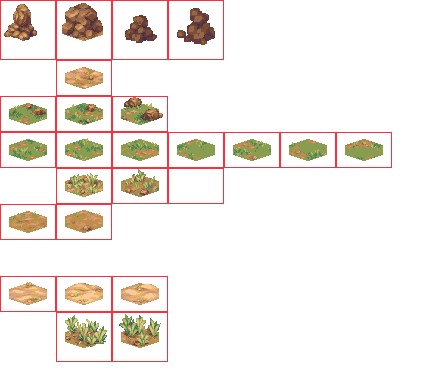
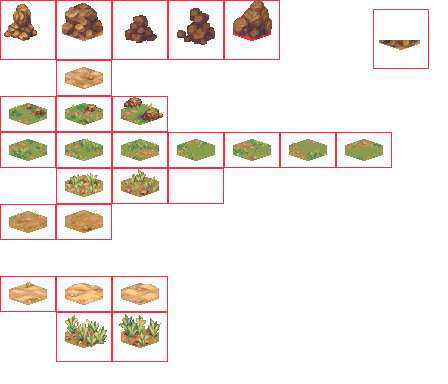
Drew another menhir variant.

diff --git a/src/game/core/data/Image_Data.ts b/src/game/core/data/Image_Data.ts
@@ -312,6 +312,15 @@ export const image_data_list: Array<ImageData> = [{
 	},
 },{
 	url: "hex-tile-experiment-tiles.png",
+	name: "menhir5",
+	bounds: {
+		x: 224,
+		y: 0,
+		w: 56,
+		h: 60,
+	},
+},{
+	url: "hex-tile-experiment-tiles.png",
 	name: "grass-and-scree1",
 	bounds: {
 		x: 1,

diff --git a/src/game/core/data/Tile_Types.ts b/src/game/core/data/Tile_Types.ts
@@ -276,6 +276,14 @@ export const tile_types: Array<TileItem> = [
 				id: 'menhir2',
 				zorder: zorder.rocks,
 			}],
+		},{
+			graphics: [{
+				id: 'dirt1',
+				zorder: zorder.grass,
+			},{
+				id: 'menhir5',
+				zorder: zorder.rocks,
+			}],
 		}],
 	},{
 		name: "menhir1",
